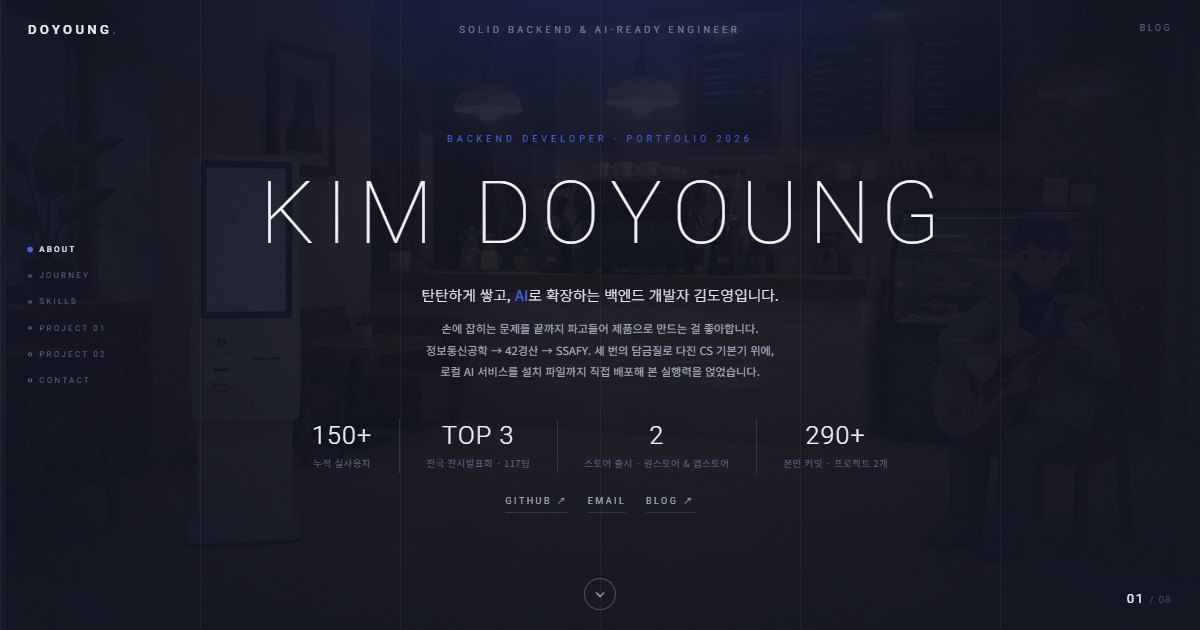
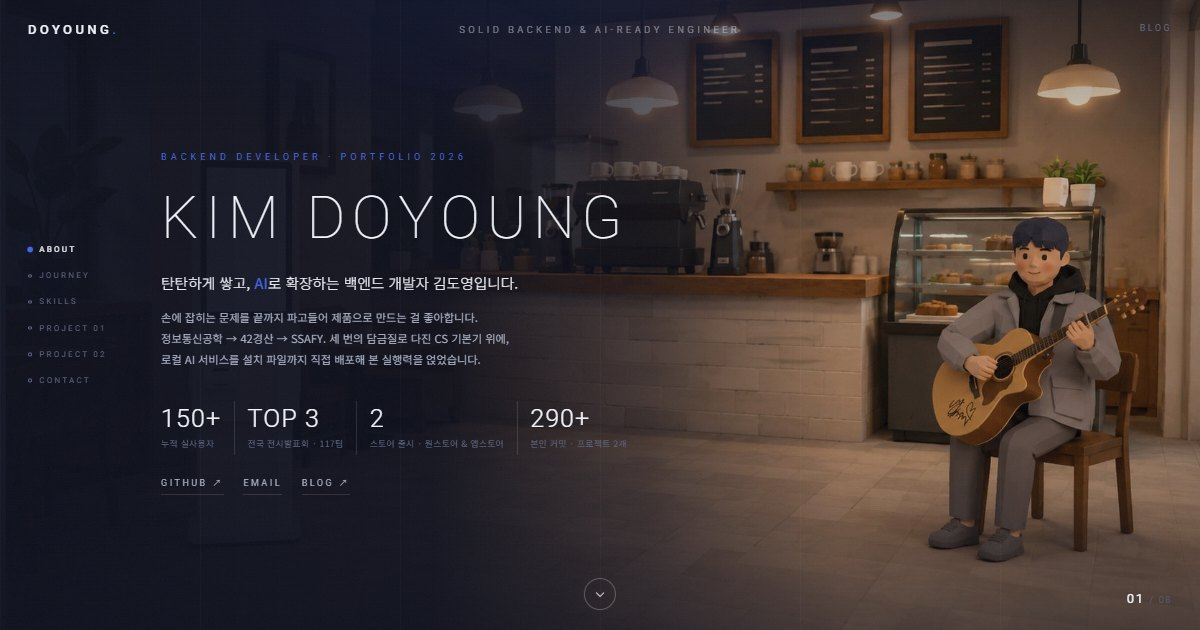
Feat: 첫 화면 재배치 — 텍스트는 왼쪽 절반, 오른쪽 절반은 cafe 그림이 거의 그대로 보이게 (배경 92% + 좌→우 그라디언트 오버레이), 타이틀 84px 한 줄, 수치 한 줄, OG 재생성

diff --git a/src/styles/global.css b/src/styles/global.css
@@ -604,6 +604,29 @@ html.fixed-canvas .pf-demo__title{font-size:44px}
 /* 고정 크롬은 뷰포트 기준이므로 레터박스만큼 안쪽으로 */
 html.fixed-canvas .pf-3d{left:0;right:0}
 
+/* ── 첫 화면(ABOUT): 텍스트는 왼쪽 절반, 오른쪽 절반은 배경 그림이 거의 그대로 보이게 ── */
+@media(min-width:861px){
+  #cv-about{justify-content:flex-start;text-align:left;padding-left:230px;padding-right:40px}
+  #cv-about .pf-cover__in{max-width:700px;margin:0}
+  #cv-about .pf-display{white-space:nowrap}
+  #cv-about .pf-vitals span{white-space:nowrap;font-size:12.5px}
+  #cv-about .pf-cover__num{display:none}
+  #cv-about .pf-cover__bg img{opacity:.92;filter:saturate(.9)}
+  #cv-about .pf-cover__bg::after{
+    background:
+      linear-gradient(180deg, rgba(12,15,29,.45) 0%, rgba(12,15,29,0) 22%, rgba(12,15,29,0) 72%, rgba(12,15,29,.55) 100%),
+      linear-gradient(90deg, rgba(12,15,29,.97) 0%, rgba(12,15,29,.93) 36%, rgba(12,15,29,.6) 54%, rgba(12,15,29,.1) 70%, rgba(12,15,29,.06) 100%);
+  }
+  #cv-about::before{opacity:.5}
+  #cv-about .pf-display{font-size:84px}
+  html.fixed-canvas #cv-about .pf-display{font-size:84px}
+  #cv-about .pf-cover__desc .pf-br{display:block}
+  #cv-about .pf-vitals{justify-content:flex-start;margin-top:44px}
+  #cv-about .pf-vitals>div{padding:4px 18px}
+  #cv-about .pf-vitals>div:first-child{padding-left:0}
+  #cv-about .pf-coverlinks{justify-content:flex-start}
+}
+
 /* ── 글씨 확대 후 900px 캔버스에 맞추기 위한 간격 조정 ── */
 #cv-skills{padding-top:100px;padding-bottom:80px}
 #cv-skills .pf-overline{margin-bottom:22px}
